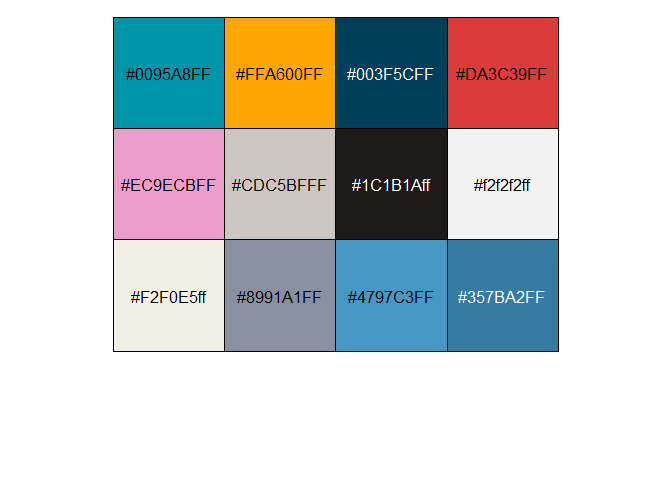
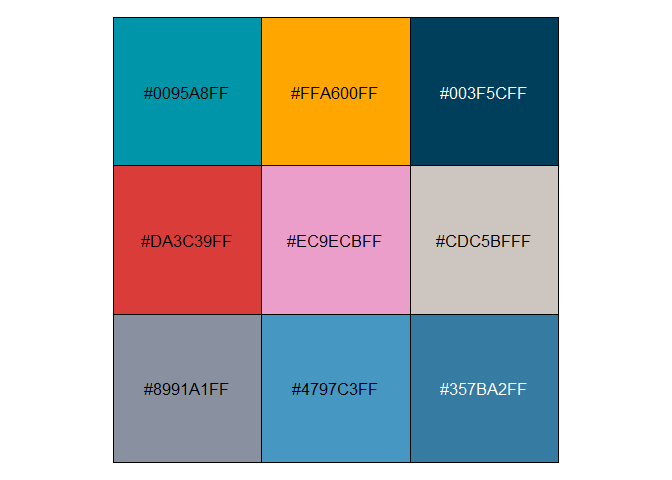
Update

diff --git a/README.md b/README.md
@@ -32,22 +32,16 @@ scales::show_col(jumble)
 <img src="man/figures/README-example-1.png" alt="" width="100%" />
 
 ``` r
-prismatic::check_color_blindness(jumble)
+prismatic::check_color_blindness(rev(jumble))
 ```
 
 <img src="man/figures/README-unnamed-chunk-2-1.png" alt="" width="100%" />
-
-``` r
-prismatic::check_color_blindness(palette.colors(palette = "Okabe-Ito")[1:5])
-```
-
-<img src="man/figures/README-unnamed-chunk-3-1.png" alt="" width="100%" />
 
 It also provides some other colours with accessible names.
 
 ``` r
 scales::show_col(
-  c(teal, orange, navy, red, pink, oat, black, grey, beige, slate, blue, ocean)
+  c(teal, orange, navy, red, pink, grey, slate, blue, ocean)
 )
 ```
 
